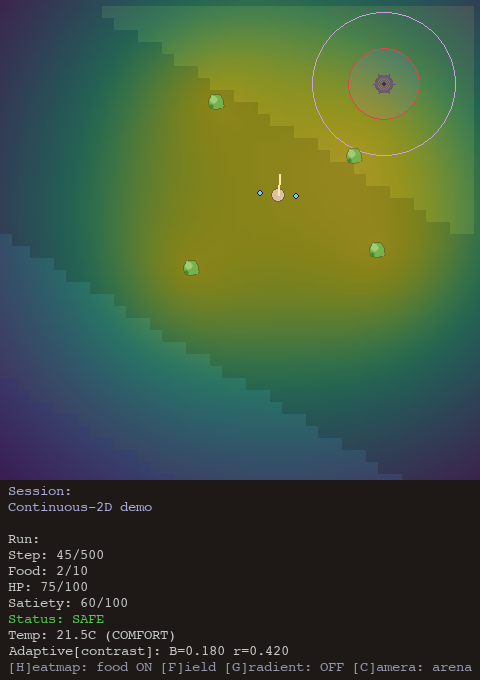
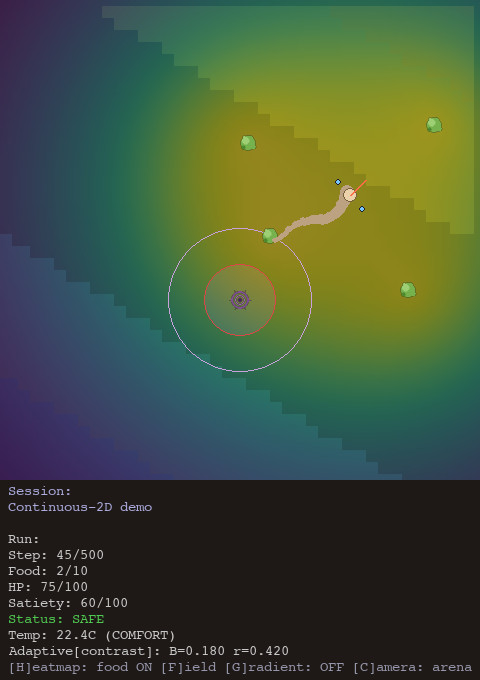
Regenerate the renderer screenshots and make the Docker image runnable
- export_screenshot.py: the continuous renderer draws the worm's body as a
  trail over its last twelve rendered positions, so a single staged frame
  could only ever show the head. Walk the worm along a gentle arc with a
  frame per step, as a live session does, then stage the food cluster and
  predator around wherever it ends up.
- Regenerate pixel_continuous_theme.png and pixel_theme.png from the
  current renderers.
- Dockerfile: install the torch extra (every classical, recurrent, spiking,
  hybrid and connectome brain needs it) and copy configs/ and data/ into
  the image; allow both through .dockerignore, which ignores by default.
- usage.md: describe the image as actually built, including that the
  CUDA-11 Aer wheel is published for x86_64 only.

diff --git a/scripts/export_screenshot.py b/scripts/export_screenshot.py
@@ -308,23 +308,74 @@ def _export_continuous(output_path: str) -> None:
             danger_delta=10.0,
         ),
     )
+    sweep = float(env.continuous.sweep_amplitude_mm)
+    session_text = "Session:\nContinuous-2D demo\n"
 
-    # Walk the worm off-centre so the heading line and sub-cell pose are visible.
-    for _ in range(6):
-        env.move_agent_normalized(speed_norm=0.9, turn_norm=0.08)
+    def snapshot() -> ContinuousRenderState:
+        """Build the render state for the worm's current pose, as the live runner does."""
+        agent_state = env.agents["default"]
+        ax, ay = env._agent_xy("default")
+        pos = agent_state.pos_continuous or (float(ax), float(ay))
+        # Use the same clamped helper the runtime snapshot builder uses, so the
+        # exported sample points match a live render (and stay in-bounds).
+        left_sample, right_sample = _continuous_lateral_offsets(
+            pos,
+            agent_state.heading_rad,
+            sweep,
+            env.grid_size,
+        )
+        zone = env.get_temperature_zone()
+        return ContinuousRenderState(
+            pos=pos,
+            heading_rad=agent_state.heading_rad,
+            left_sample=left_sample,
+            right_sample=right_sample,
+            sweep=sweep,
+            adaptive_background=0.18,
+            adaptive_readout=0.42,
+            adaptive_mode="contrast",
+            step=45,
+            max_steps=500,
+            foods_collected=2,
+            target_foods=10,
+            health=75.0,
+            max_health=100.0,
+            satiety=60.0,
+            max_satiety=100.0,
+            in_danger=False,
+            temperature=env.get_temperature(),
+            zone_name=zone.value.upper().replace("_", " ") if zone else None,
+            oxygen=None,
+            oxygen_zone_name=None,
+        )
 
+    pygame.init()
+    renderer = Continuous2DRenderer(world_size_mm=world)
+
+    # The renderer draws the worm's body as a stylised trail over the positions it has
+    # rendered recently, so a single staged frame shows only the head. Walk the worm
+    # along a gentle arc and render every step, exactly as a live session does, so the
+    # trail fills in before the frame we keep.
+    for _ in range(14):
+        env.move_agent_normalized(speed_norm=0.7, turn_norm=0.1)
+        renderer.render_frame(env, snapshot(), session_text=session_text)
+
+    # Stage the food cluster and the predator around wherever the walk ended, on the
+    # side of the arena with the most room so nothing lands out of bounds.
     ax, ay = env._agent_xy("default")
+    sx = 1.0 if ax < world / 2 else -1.0
+    sy = 1.0 if ay < world / 2 else -1.0
     # `foods` is int-annotated but stores real-valued sources at runtime on the
     # continuous substrate (see Continuous2DEnvironment); float coords are intended.
     env.foods = [  # type: ignore[assignment]
-        (ax + 6.4, ay + 3.2),
-        (ax - 5.1, ay + 7.7),
-        (ax + 8.3, ay - 4.6),
-        (ax - 7.2, ay - 6.1),
+        (ax + sx * 6.4, ay + sy * 3.2),
+        (ax - sx * 5.1, ay + sy * 7.7),
+        (ax + sx * 8.3, ay - sy * 4.6),
+        (ax - sx * 7.2, ay - sy * 6.1),
     ]
     env.predators = [
         Predator(
-            position=(round(ax + 9), round(ay + 9)),
+            position=(round(ax + sx * 9), round(ay + sy * 9)),
             predator_type=PredatorType.STATIONARY,
             speed=0.0,
             detection_radius=6,
@@ -332,49 +383,9 @@ def _export_continuous(output_path: str) -> None:
         ),
     ]
 
-    agent_state = env.agents["default"]
-    pos = agent_state.pos_continuous or (float(ax), float(ay))
-    sweep = float(env.continuous.sweep_amplitude_mm)
-    # Use the same clamped helper the runtime snapshot builder uses, so the
-    # exported sample points match a live render (and stay in-bounds).
-    left_sample, right_sample = _continuous_lateral_offsets(
-        pos,
-        agent_state.heading_rad,
-        sweep,
-        env.grid_size,
-    )
-
-    temperature = env.get_temperature()
-    zone = env.get_temperature_zone()
-    zone_name = zone.value.upper().replace("_", " ") if zone else None
-
-    state = ContinuousRenderState(
-        pos=pos,
-        heading_rad=agent_state.heading_rad,
-        left_sample=left_sample,
-        right_sample=right_sample,
-        sweep=sweep,
-        adaptive_background=0.18,
-        adaptive_readout=0.42,
-        adaptive_mode="contrast",
-        step=45,
-        max_steps=500,
-        foods_collected=2,
-        target_foods=10,
-        health=75.0,
-        max_health=100.0,
-        satiety=60.0,
-        max_satiety=100.0,
-        in_danger=False,
-        temperature=temperature,
-        zone_name=zone_name,
-        oxygen=None,
-        oxygen_zone_name=None,
-    )
-
-    pygame.init()
-    renderer = Continuous2DRenderer(world_size_mm=world)
-    renderer.render_frame(env, state, session_text="Session:\nContinuous-2D demo\n")
+    # One more small step so the final frame is a genuine pose over the staged scene.
+    env.move_agent_normalized(speed_norm=0.3, turn_norm=0.1)
+    renderer.render_frame(env, snapshot(), session_text=session_text)
 
     from pathlib import Path
 

diff --git a/docs/usage.md b/docs/usage.md
@@ -185,7 +185,7 @@ Hardware runs are slow and metered; the Phase 2 campaign used them sparingly for
 ## GPU and Docker
 
 - **GPU simulation**: `uv sync --extra gpu --extra torch --extra pixel` installs `qiskit-aer-gpu-cu11` (CUDA 11; driver ≥ 450) instead of the CPU simulator, then `--device gpu`. The `gpu` and `cpu` extras cannot be installed together.
-- **Container**: `docker compose up --build` builds a `python:3.13-slim` image with the `gpu` extra and starts it with all NVIDIA devices attached (requires Docker with the NVIDIA Container Toolkit). As committed, the image installs only the `gpu` extra (no PyTorch, so only the quantum brains run) and copies `packages/` and `scripts/` but not `configs/` or `data/` — mount the repository or extend the `Dockerfile` before using it for real sessions. Treat it as a starting point rather than a supported path.
+- **Container**: `docker compose up --build` builds a `python:3.13-slim` image with the `gpu` and `torch` extras, the source, scripts, configs and data, and starts it with all NVIDIA devices attached (requires Docker with the NVIDIA Container Toolkit on an x86_64 host — the CUDA-11 Aer wheel is published for x86_64 only, so on Apple Silicon build it with `docker build --platform linux/amd64 .` for CPU-only checks). Run sessions inside it with `docker compose exec quantum-nematode uv run ./scripts/run_simulation.py --config configs/scenarios/… --theme headless --device gpu`; outputs land in the container's `/app/exports` unless you mount a volume for it. The image is not built in CI, so treat it as best-effort.
 
 ## Multi-agent sessions
 
